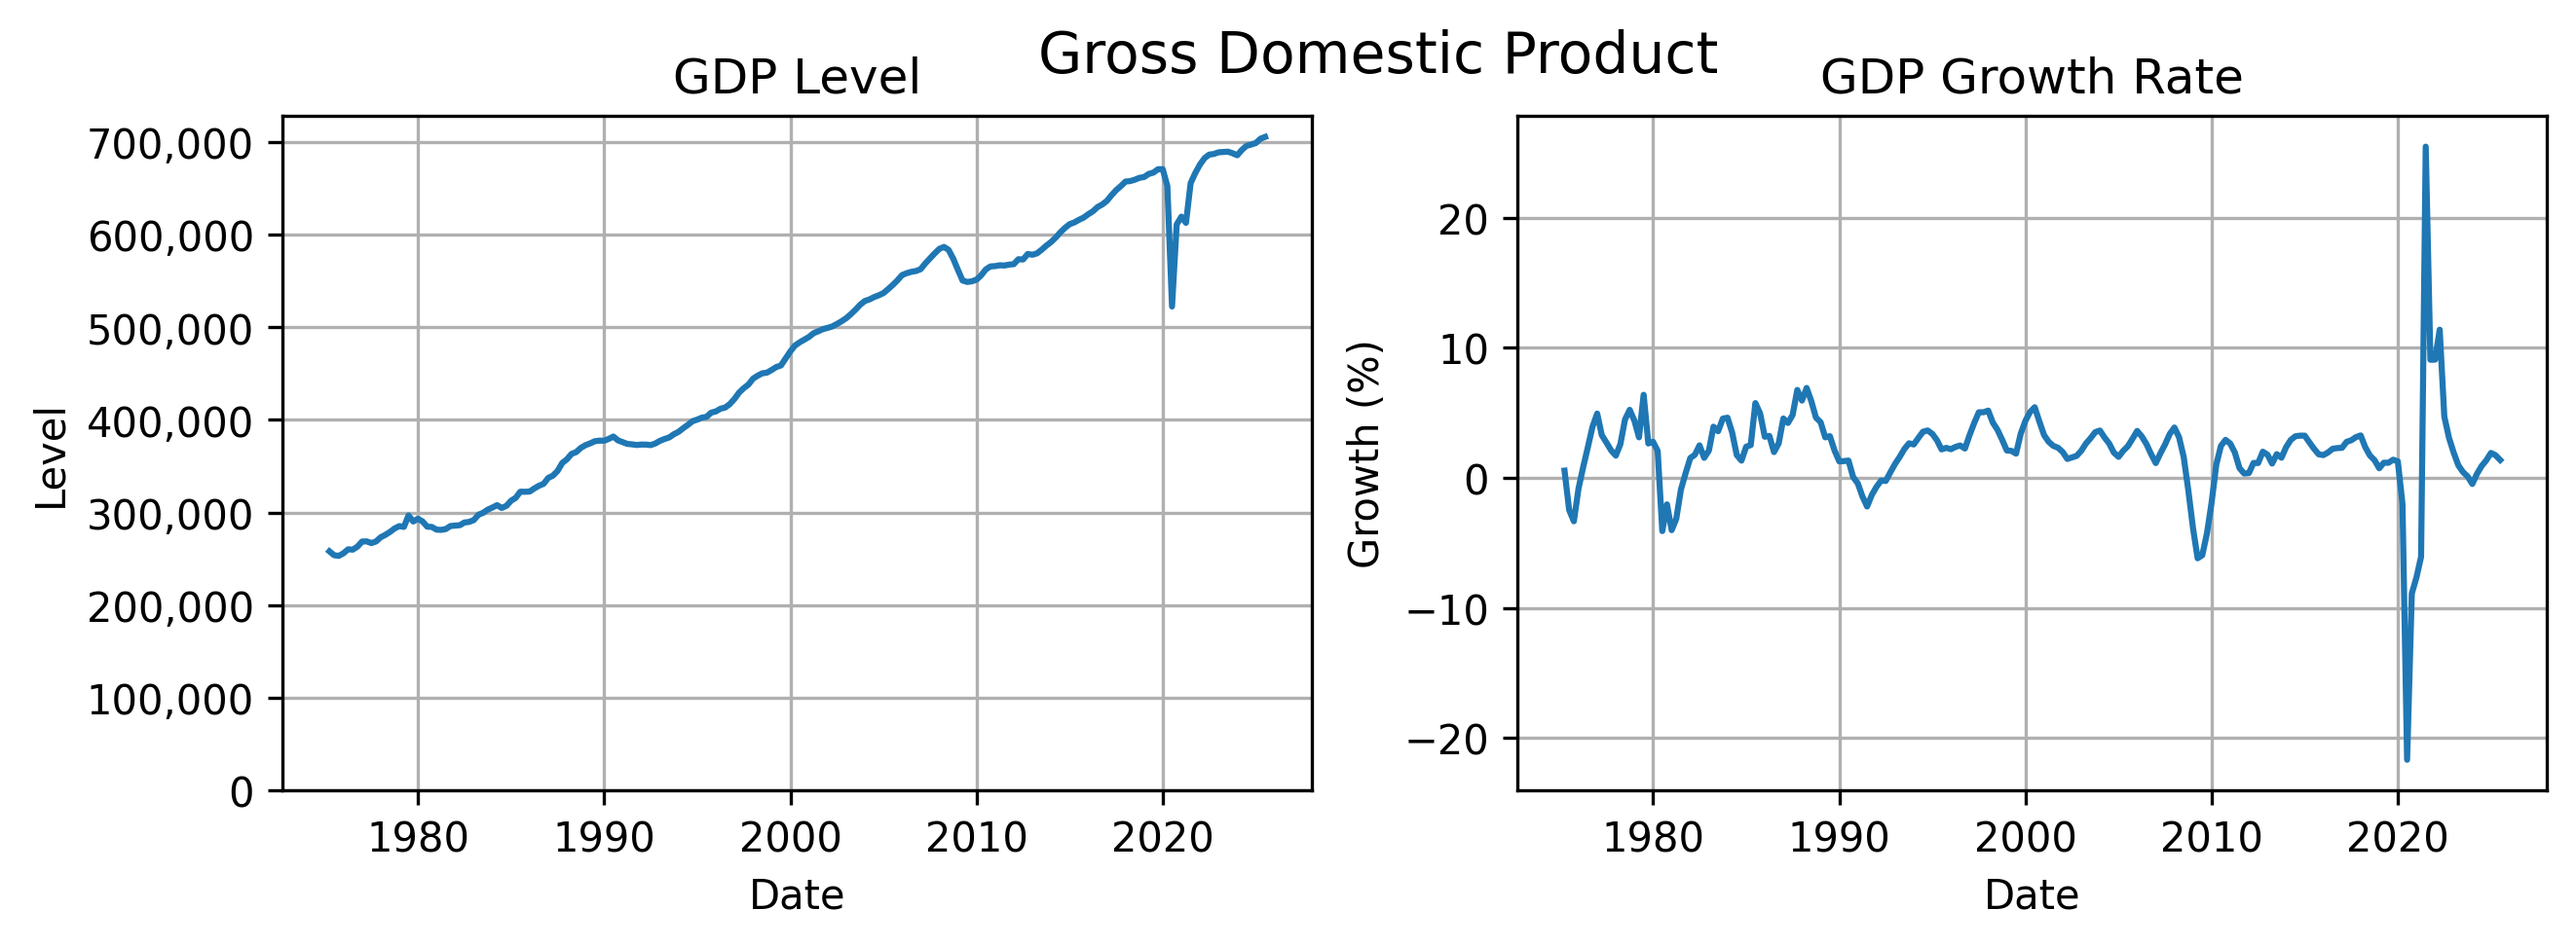
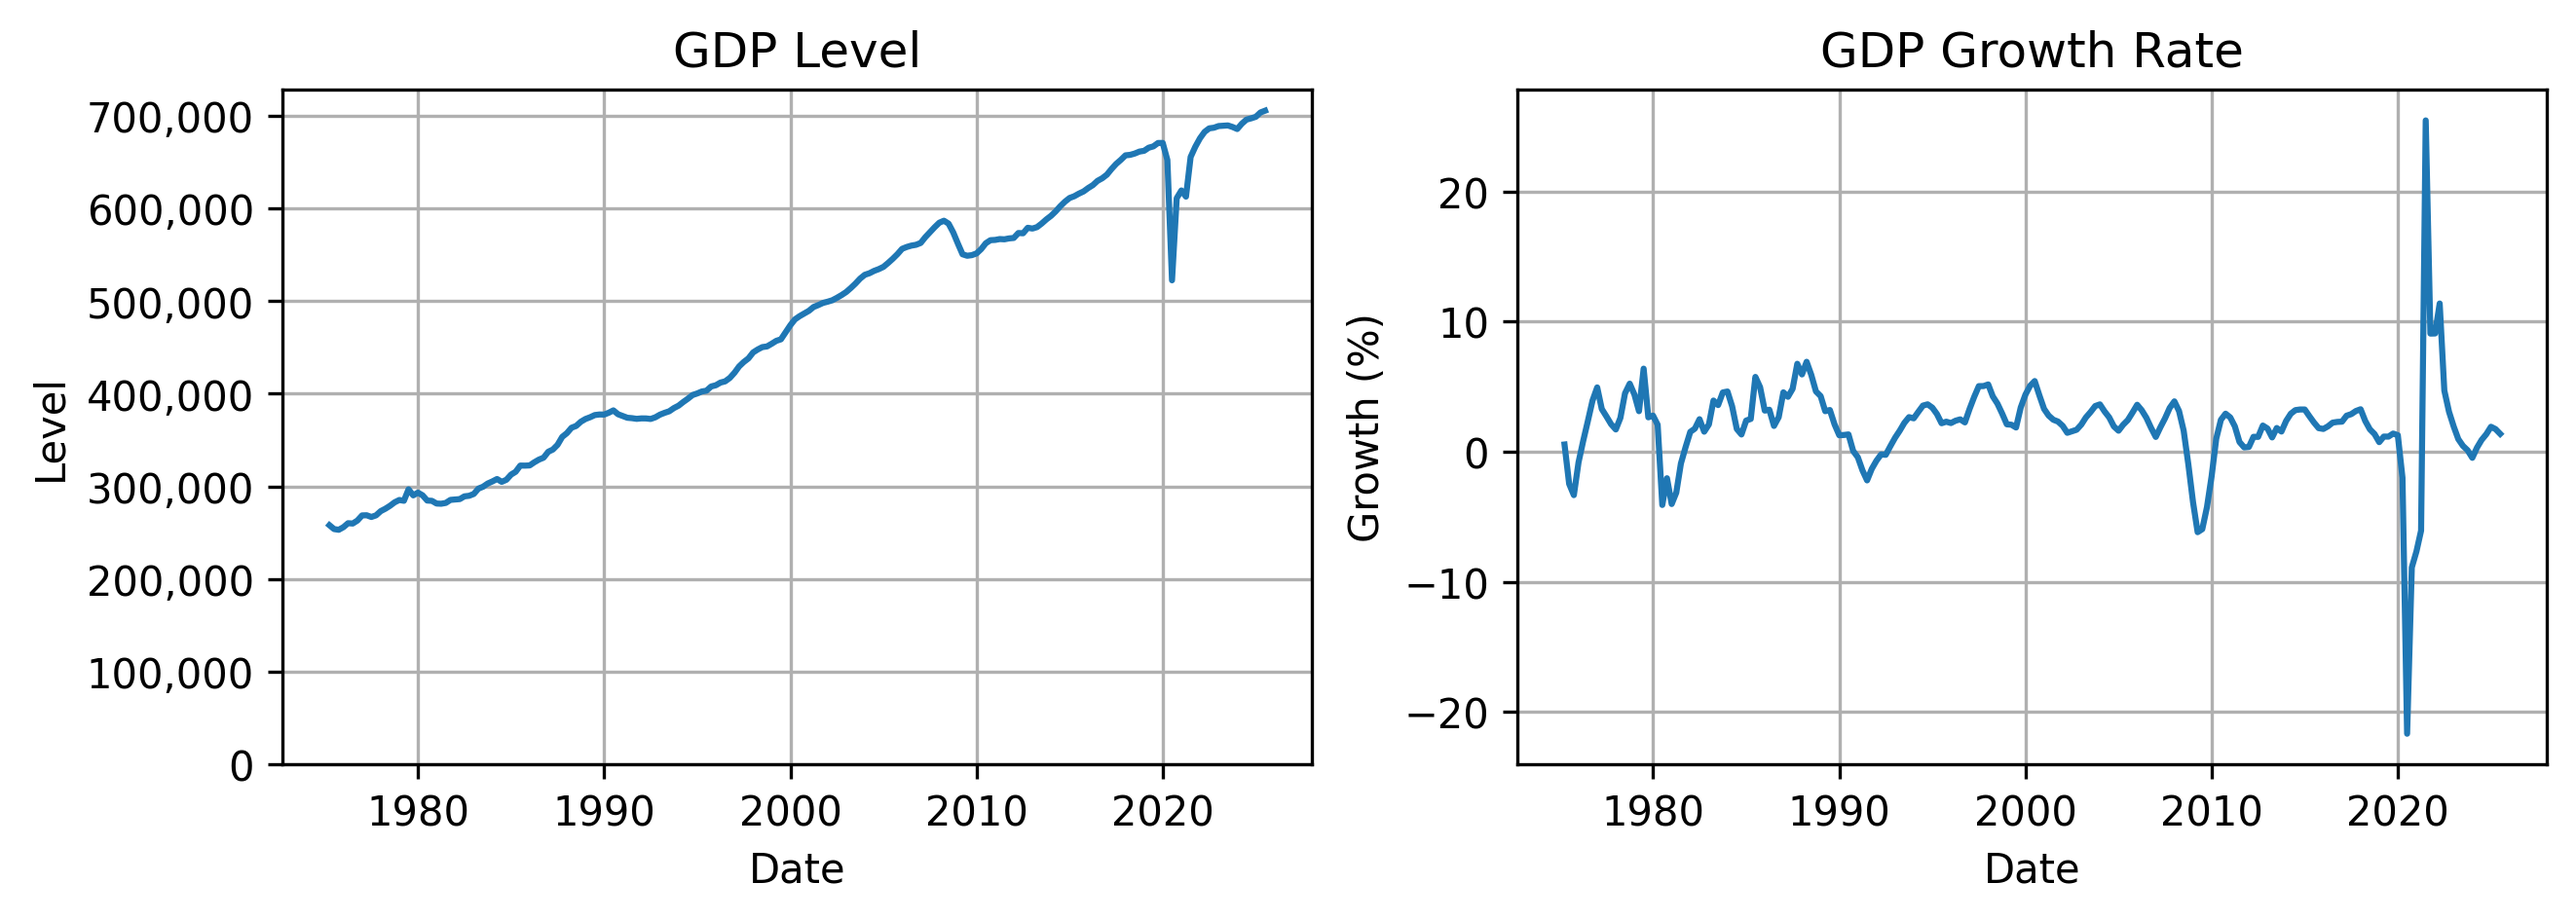
Commit

diff --git a/Portfolio/machine-learning/machine-learning-sarimax-gdp.md b/Portfolio/machine-learning/machine-learning-sarimax-gdp.md
@@ -48,7 +48,16 @@ The avaliable data spans 1971Q1 to 2025Q2, with GDP and UnempRate plotted below.
     <img src="https://raw.githubusercontent.com/MarkThackham/MarkThackham.github.io/main/Portfolio/machine-learning/sarimax-gdp/sarimax_gdp-growth.png"
          alt="GDP_Timeseries"
          width="800">
-    <figcaption>Gross Domestic Product and Unemployment Rate Growth</figcaption>
+    <figcaption>Gross Domestic Product</figcaption>
+  </figure>
+</div>
+
+<div style="display: flex; justify-content: center; align-items: flex-start;">
+  <figure style="text-align: center; margin: 0;">
+    <img src="https://raw.githubusercontent.com/MarkThackham/MarkThackham.github.io/main/Portfolio/machine-learning/sarimax-gdp/sarimax_unemp-rate-growth.png"
+         alt="GDP_Timeseries"
+         width="800">
+    <figcaption>Unemployment Rate</figcaption>
   </figure>
 </div>
 
